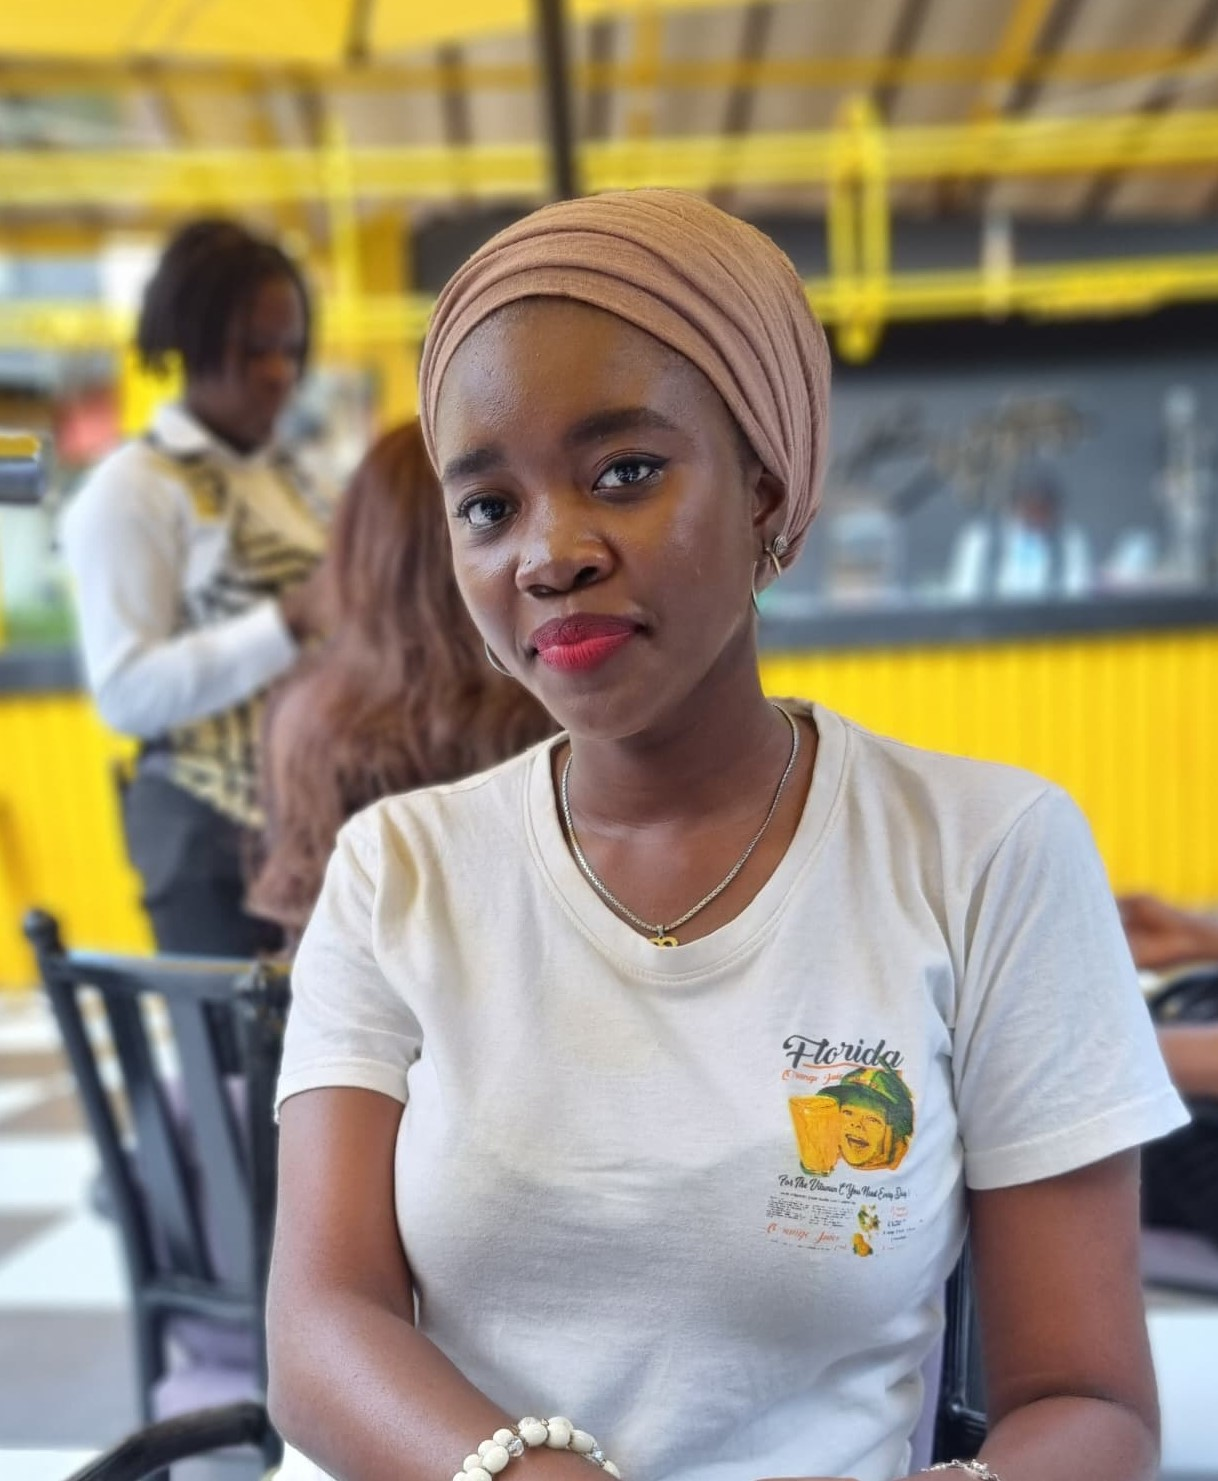
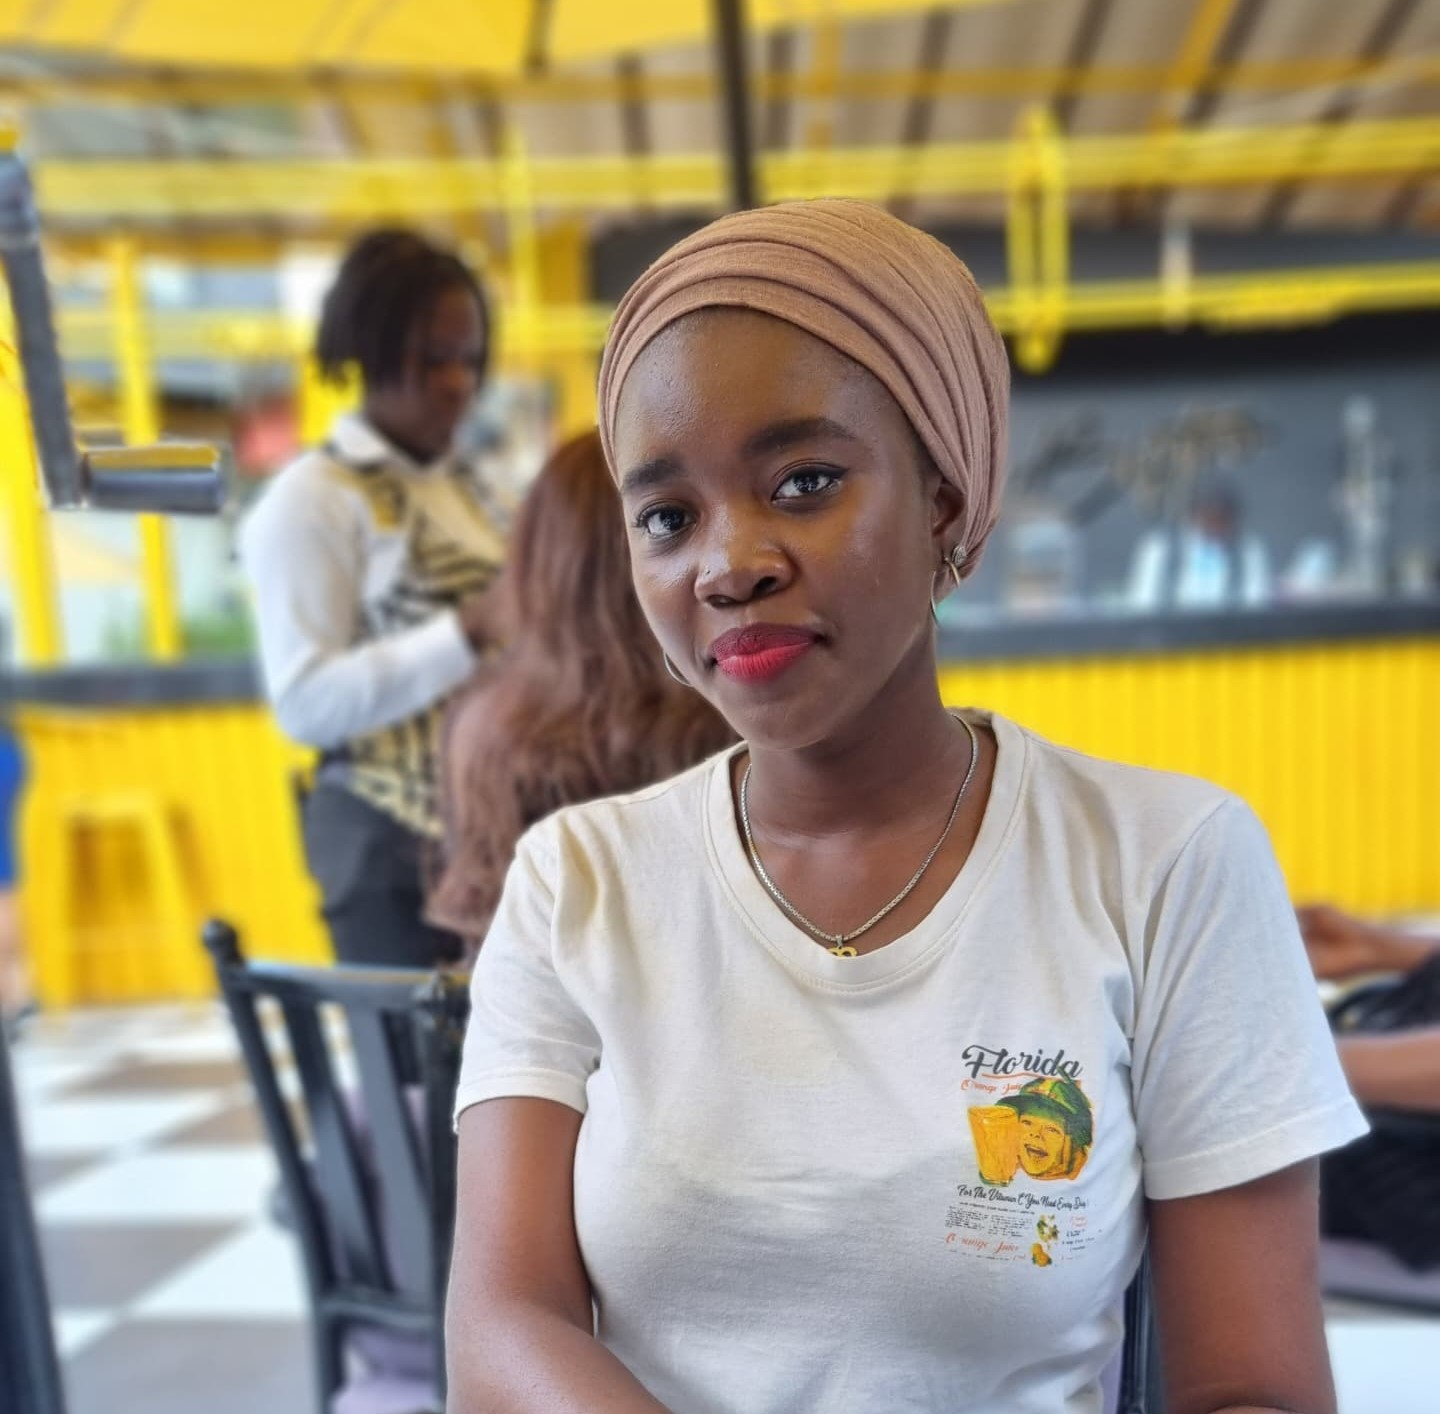
Fixed section width

diff --git a/style.css b/style.css
@@ -764,10 +764,13 @@ body.dark .work-links img {
 
 .article-boxes {
   display: flex;
+  width: 100%;
+  margin: auto;
   flex-flow: row wrap;
   gap: 3.5%;
   margin-block-start: var(--gutter-x-large);
 }
+
 
 .article-box {
   flex-basis: 31%;
@@ -820,14 +823,11 @@ body.dark .work-links img {
 }
 
 @media (max-width: 650px) {
+  
   .article-box:nth-child(2),
   .article-box:nth-child(3),
-  .article-box:last-child {
+  .article-box:last-child, .article-box:nth-child(1) {
     flex-basis: 100%;
-  }
-
-  .featured-article {
-    margin-block-end: 0;
   }
 
   .article-box:not(:last-child) {
@@ -837,50 +837,6 @@ body.dark .work-links img {
   .article-box:last-child {
     display: block;
   }
-}
-
-/* --------------------------------- */
-/* ----- Featured article -----*/
-/* --------------------------------- */
-
-.featured-article {
-  flex-basis: 100%;
-  display: flex;
-  align-items: center;
-  justify-content: space-between;
-  margin-block-end: 44.8px;
-}
-
-@media (max-width: 985px) {
-  .featured-article {
-    margin-block-end: 24.4px;
-    flex-direction: column-reverse;
-  }
-}
-
-.featured-article .article-textbox {
-  flex-basis: 44%;
-}
-
-.featured-article h3 {
-  margin-block-start: var(--gutter-x-small);
-}
-
-.featured-article .article-illustration {
-  flex-basis: 50%;
-}
-
-.article-illustration img {
-  border-radius: var(--gutter-nano);
-}
-
-.featured-article .article-text {
-  font-size: var(--text-medium);
-}
-
-.featured-article .article-info {
-  justify-content: flex-start;
-  gap: var(--gutter-medium);
 }
 
 /* --------------------------------- */

diff --git a/index.html b/index.html
@@ -196,11 +196,8 @@
                   </h3>
                   <h4> Janaury 2020 - June 2023</h4>
                   <p class="article-text">
-                    Collected, managed, and analyzed student performance and attendance data.
-                    Created reports and visual dashboards for school administrators.
-                    Developed metrics to evaluate educational programs.
-                    Ensured data confidentiality and compliance with regulations.
-                    Provided data training and support to staff
+                    Designed and developed a visually appealing static landing page using Figma and WordPress,
+                    ensuring alignment with the organization's mission, branding, and user engagement goals.
                   </p>
                 </div>
               </div>
@@ -273,7 +270,7 @@
                   </blockquote>
               <figure class="testimonial-author">
                 <img
-                  src="assets/images/testimonials/Okirie.jpeg"
+                  src="assets/images/Mine/WhatsApp Image 2025-01-01 at 02.27.08_0df3d9bb.jpg"
                   alt="Victory"
                   loading="lazy"
                 />
